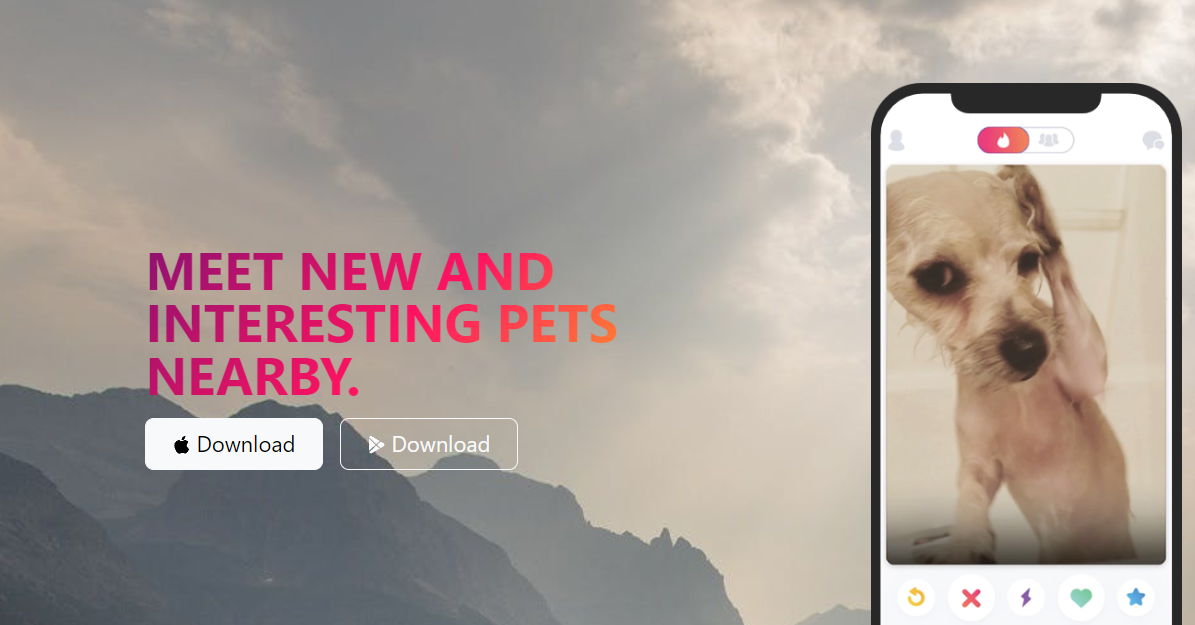
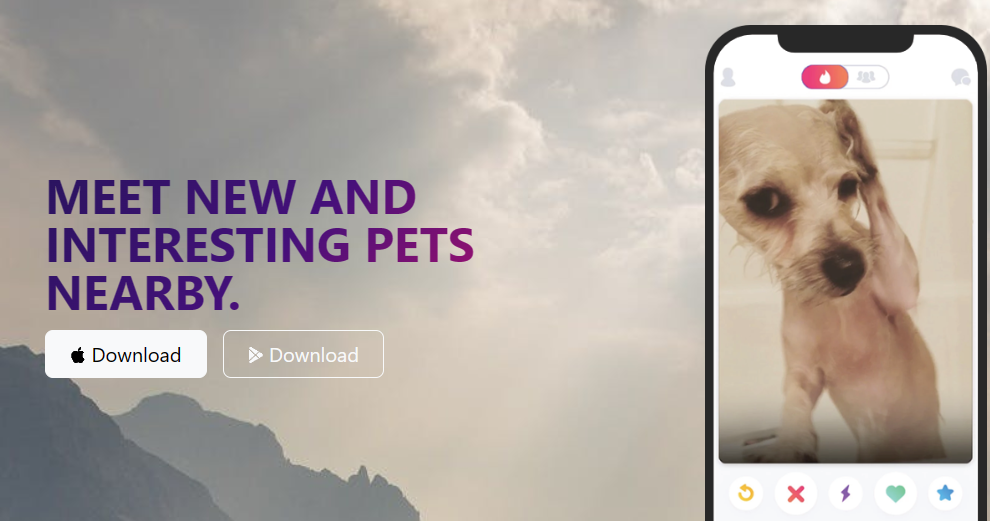
Add files via upload

diff --git a/index.html b/index.html
@@ -140,13 +140,13 @@
    <section id="Project">
     <hr class="featurette-divider">
   <div class="container p-5 ">
-    <div class="d-flex row justify-content-start">
+    <div class="d-flex row justify-content-between">
       <div class="col-lg-4 align-self-center">
         <h2 class="fw-bold">Tinpets Project. <span class="text-body-secondary">It’ll blow your mind.</span></h2>
         <p>The project is about to creat website that inspiration from app "Tinder".</p>
       </div>
-      <div class="col-lg-6">
-        <a href="https://evcrboom.github.io/Tinpets-Project-CSS/"><img class="Tinpetslogo" src="./img/Tinpets.png" alt="Tinpets"></a>
+      <div class="col-lg-8">
+        <a href="https://evcrboom.github.io/Tinpets-Project-CSS/"><img class="Tinpetslogo img-fluid" src="./img/Tinpets.png" alt="Tinpets"></a>
       </div>
       
       </div>

diff --git a/style.css b/style.css
@@ -100,8 +100,7 @@ h2.fw-bold {
 }
 
 .Tinpetslogo {
-  height: 400px;
-  object-fit: cover;
+  
   border-radius: 20px;
   border: 10px dashed white;
   padding: 10px;
